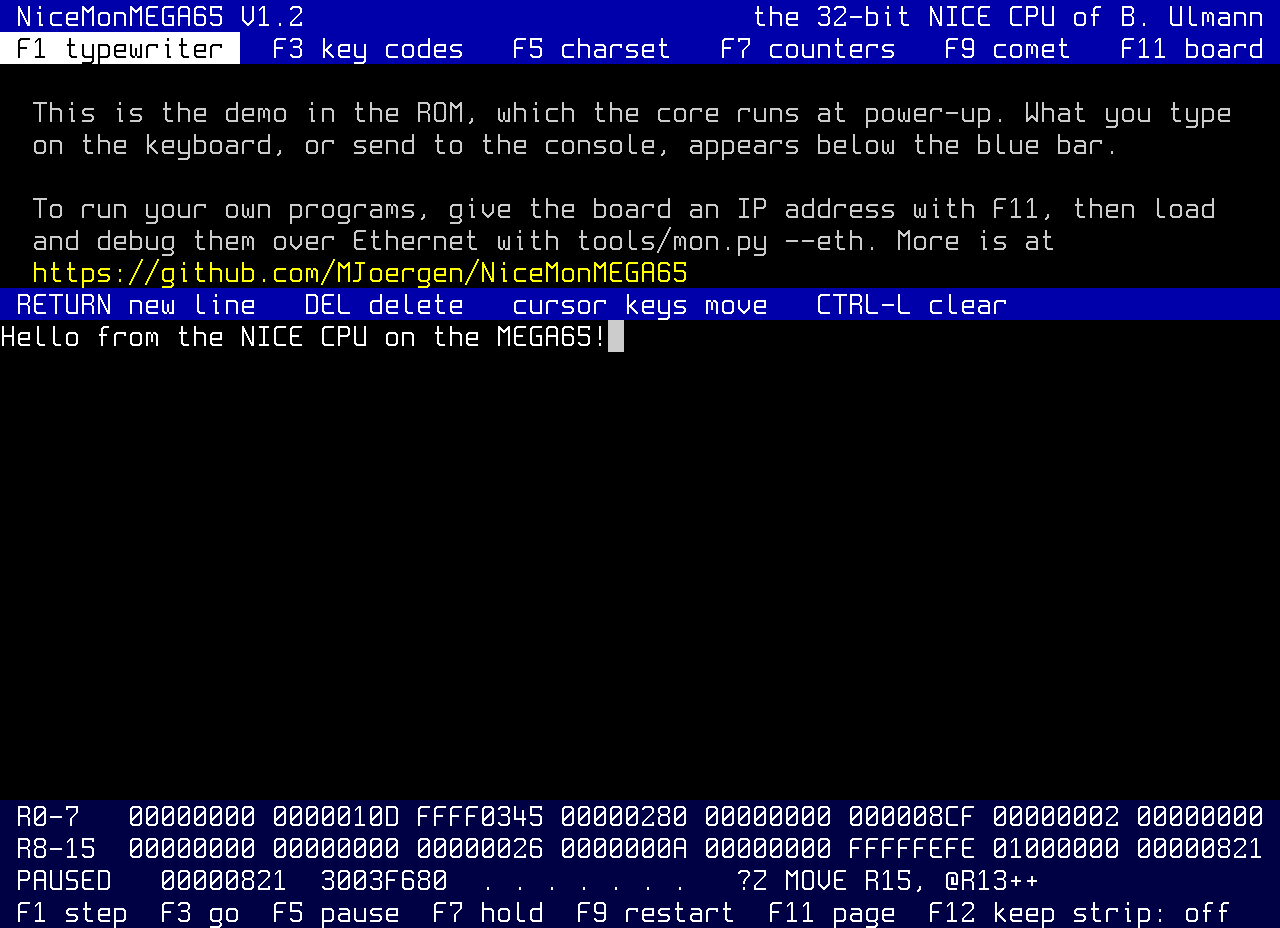
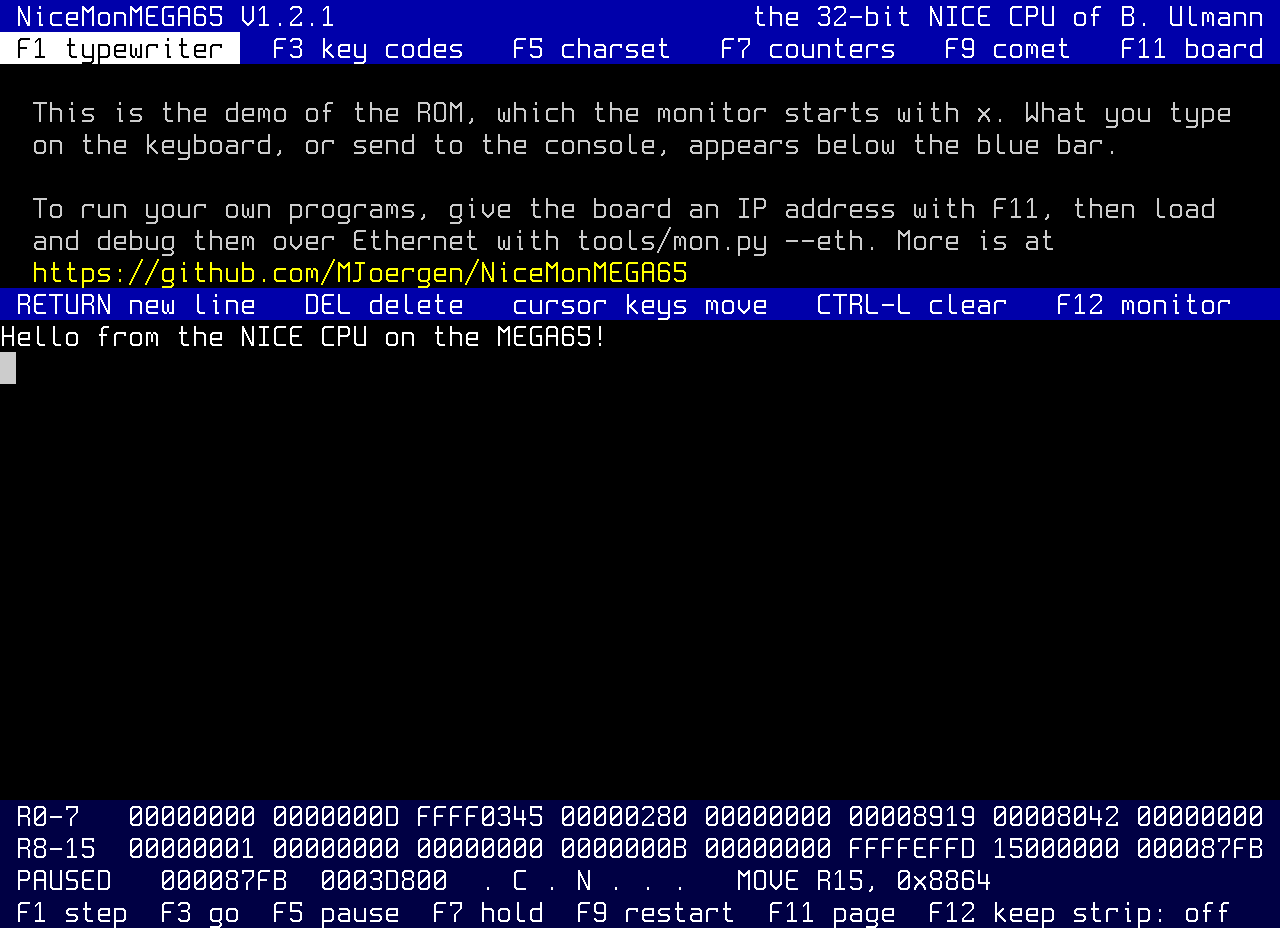
Date the notes and draw the pictures for V1.2.1
The release notes of V1.2.1 had no date, and the README's pictures
showed V1.2 and the demo at power-up. The pictures are drawn again from
the ROM with the tag, and the debugger's step count in screenshot.py
now pauses the demo at its wait for a key, as the monitor before it
moved the old count past the halt.

diff --git a/tools/screenshot.py b/tools/screenshot.py
@@ -21,7 +21,7 @@ The pictures of doc/images/ are made from the ROM of the release, the
 monitor and the demo behind it, with its tag, and x and CR first, which
 start the demo:
 
-    make -C demo VERSION=V1.1
+    make -C demo VERSION=V1.2.1
     printf 'x\\rHello from the NICE CPU on the MEGA65!\\r' > in.txt
     tools/screenshot.py -i in.txt -o doc/images/demo.png demo/build/rom.bin
 
@@ -34,7 +34,7 @@ doc/images/ethernet.png, the demo's F11, with:
 and doc/images/debugger.png, the typewriter paused under the strip once
 the line of the first in.txt is typed, with:
 
-    tools/screenshot.py -i in.txt -n 33516 --debugger \\
+    tools/screenshot.py -i in.txt -n 33031 --debugger \\
         -o doc/images/debugger.png demo/build/rom.bin
 
 Usage:

diff --git a/doc/RELEASE_NOTES.md b/doc/RELEASE_NOTES.md
@@ -21,7 +21,7 @@ The release candidates pinned these:
 
 nice_cpu's `RC01` and `RC03` have no tag here.
 
-## V1.2.1
+## V1.2.1 (2026-11-02)
 
 **Upgrade notes.**
 
